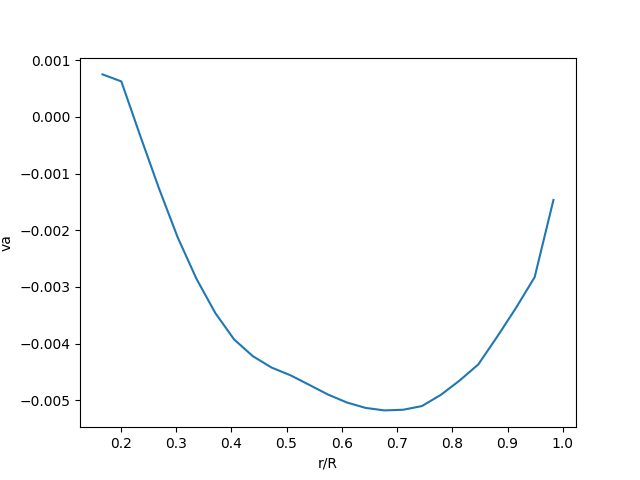
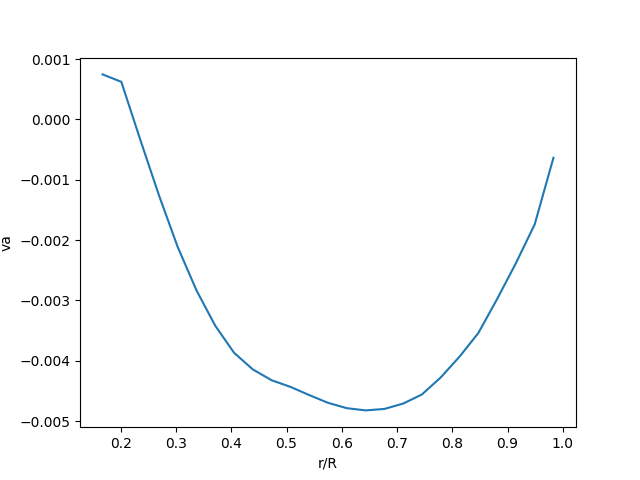
Fを1にすると、一致する、わけわからん

diff --git a/perform_analysis_qprop.py b/perform_analysis_qprop.py
@@ -58,7 +58,7 @@ plt.clf()
 
 psi = np.zeros(len(r_R))
 
-qpropFactorFlag = False
+qpropFactorFlag = True
 for i in range(len(r_R)):
     def equation(psi):
         r = r_R[i] * R
@@ -111,24 +111,18 @@ va = Wa - Ua
 vt = Ut - Wt
 aoa = beta - np.degrees(np.arctan(Wa / Wt))
 cl = np.interp(aoa, alpha, airfoil_cl)
-# if qpropFactorFlag:
-lamda = r / R * Wa / Wt
-f = B / 2 * (1 - r/R) / lamda
-F = 2 / math.pi * np.arccos(np.clip(np.exp(-f), -1, 1))
-plt.clf()
-plt.plot(r_R, F, label='QPROP F')
-gamma = vt * 4 * math.pi * r / B * F * np.sqrt(1 + (4 * lamda * R / (math.pi * B * r ))**2)
-# else:
-lamda = V / R / omega 
-f = B / 2 * (1 - r/R) / lamda *np.sqrt(lamda**2 + 1)
-F = 2 / math.pi * np.arccos(np.clip(np.exp(-f), -1, 1))
-plt.plot(r_R, F, label='Prandtl F')
-plt.legend()
-plt.savefig('./debug/F-compare.png')
-plt.clf()
-gamma = vt * 4 * math.pi * r / B * F
+if qpropFactorFlag:
+    lamda = r / R * Wa / Wt
+    f = B / 2 * (1 - r/R) / lamda
+    F = 2 / math.pi * np.arccos(np.clip(np.exp(-f), -1, 1))
+    gamma = vt * 4 * math.pi * r / B * F * np.sqrt(1 + (4 * lamda * R / (math.pi * B * r ))**2)
+else:
+    lamda = V / R / omega 
+    f = B / 2 * (1 - r/R) / lamda *np.sqrt(lamda**2 + 1)
+    F = 2 / math.pi * np.arccos(np.clip(np.exp(-f), -1, 1))
+    gamma = vt * 4 * math.pi * r / B * F
 
-# load gemoetry txt and interpolate it to r/R
+# load qprop data for validation
 qprop = np.loadtxt('./secret/qprop_validation_advance.txt')
 qprop_r_R = qprop[:, 0] / R
 qprop_c_R = qprop[:, 1] / R
@@ -146,6 +140,7 @@ qprop_r = qprop_r_R * R
 qprop_Ut = omega * qprop_r
 qprop_U = np.sqrt(V**2 + qprop_Ut**2)
 qprop_gamma = qprop_vt * 4 * math.pi * r / B * qprop_F * np.sqrt(1 + (4 * qprop_lamda * R / (math.pi * B * r ))**2)
+
 # plot F
 plt.clf()
 plt.plot(r_R, F, marker='o',label='in-house')
@@ -164,8 +159,8 @@ plt.ylabel('vt')
 plt.savefig('./debug/vt.png')
 # plot Wt
 plt.clf()
-# plt.plot(r_R, qprop_Wt, marker='o',label='in-house')
-plt.plot(qprop_r_R, 0.5*qprop_Ut+0.5*qprop_U*np.cos(qprop_psi)-qprop_Wt, marker='o',label='qprop')
+plt.plot(r_R, qprop_Wt, marker='o',label='in-house')
+plt.plot(qprop_r_R, 0.5*qprop_Ut+0.5*qprop_U*np.cos(qprop_psi), marker='o',label='qprop')
 plt.legend()
 plt.xlabel('r/R')
 plt.ylabel('Wt')
